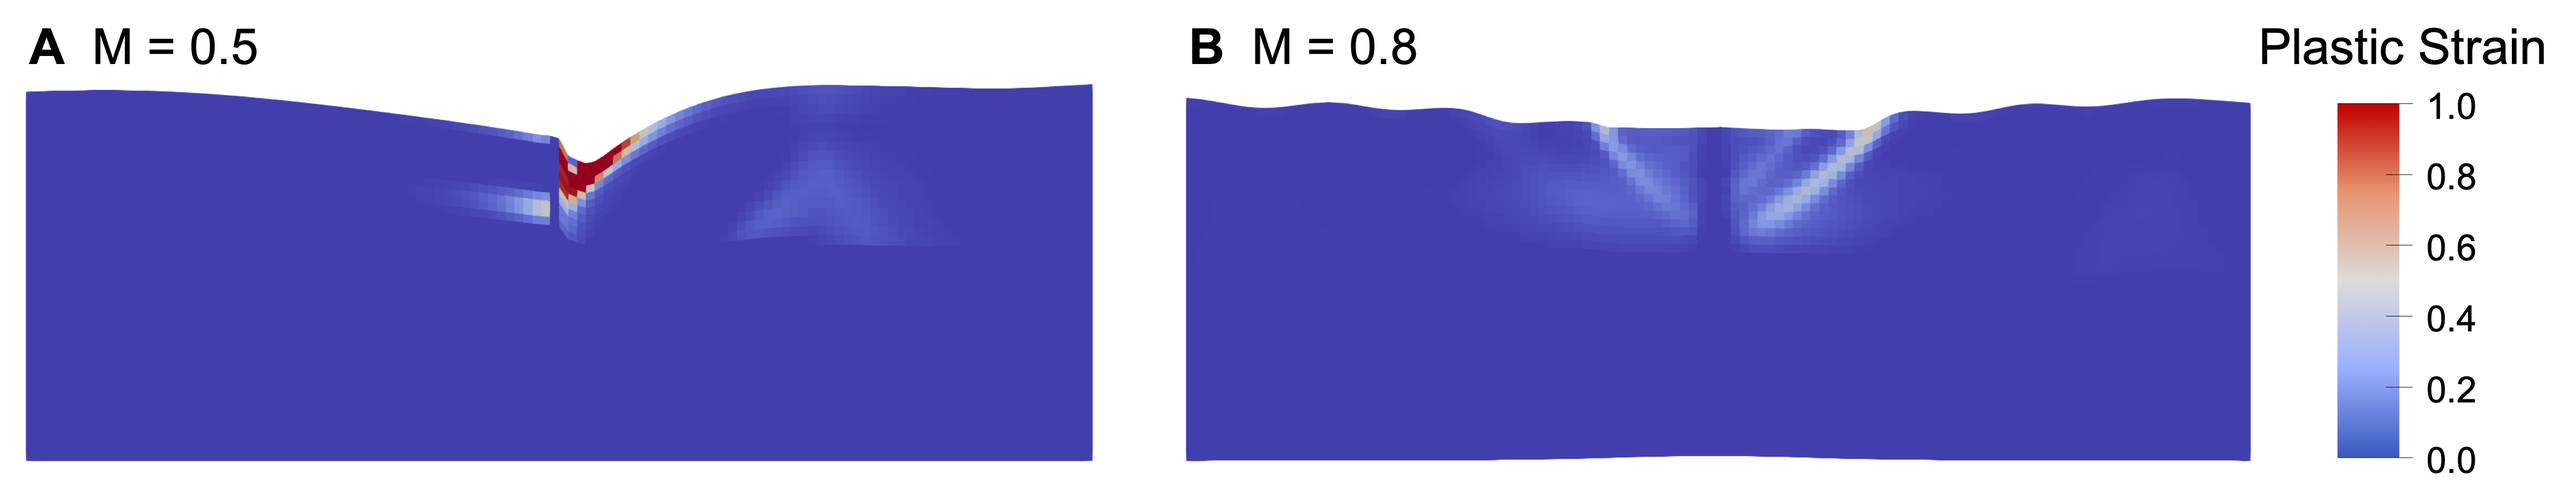
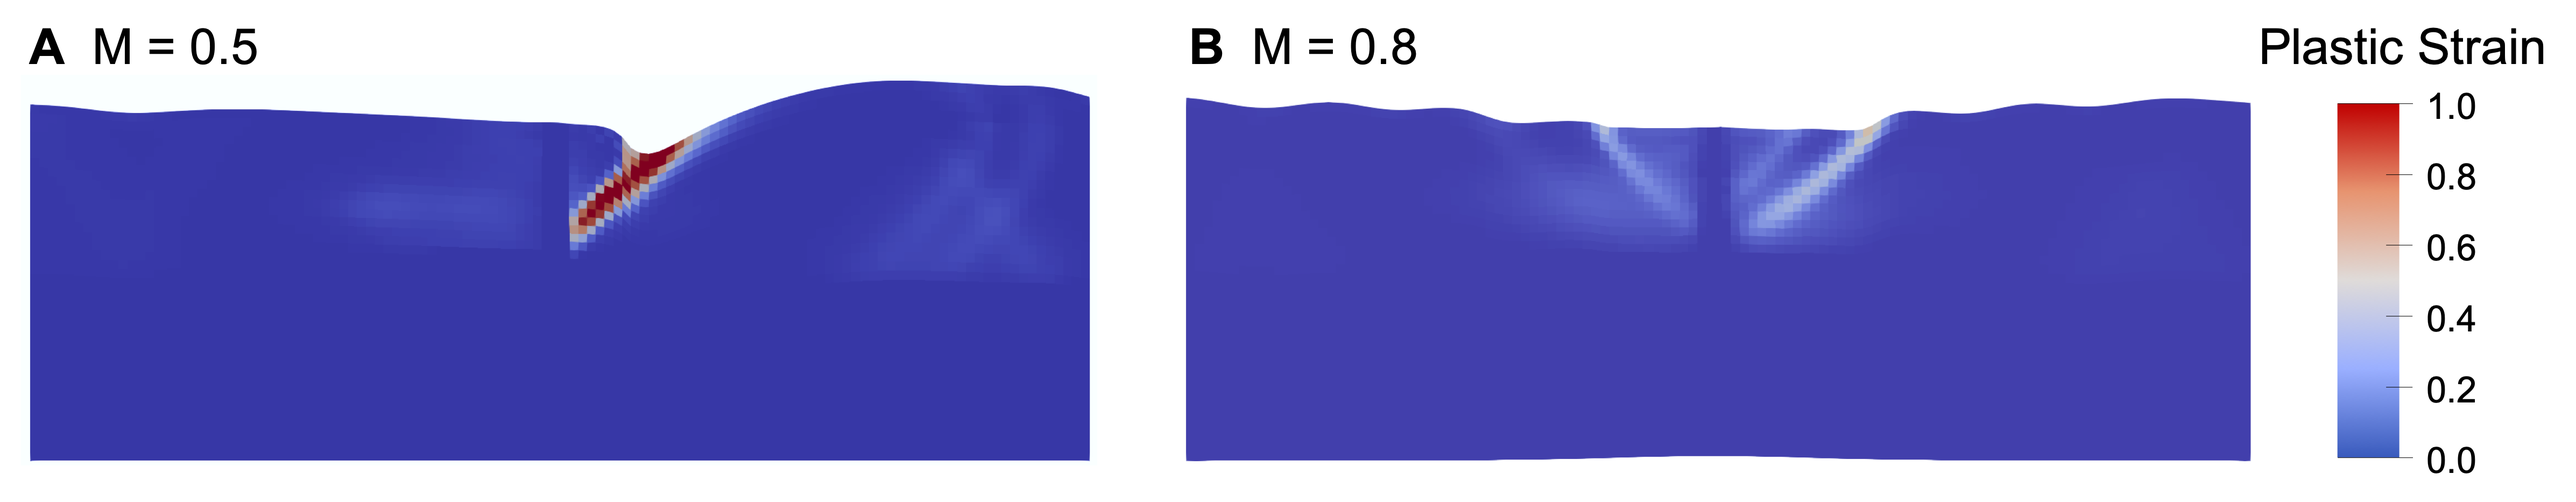
more editing

Changed region(s): [[0.1245, 0.1554, 0.4358, 0.4973], [0.0, 0.1554, 0.1245, 0.2487], [0.9027, 0.0622, 0.996, 0.1243]]

diff --git a/thesis.tex b/thesis.tex
@@ -467,6 +467,10 @@ The horizontal plate velocity changes when M value changes (400 Kyrs later). In 
 
 \section{Constant $(\boldsymbol{F_{bdy}})_x$ models}
 
+This condition characterizes both $(\boldsymbol{F_{int}})_x$ and $(\boldsymbol{F_{res}})_x$ are dynamically changed by setting $(\boldsymbol{F_{bdy}})_x$ as a constant value. Since the net residual force keeps changing, plate velocity under this condition is continuously changing over time.
+
+\subsection{Force balanced models}
+
 Modeled fault behaviors from constant $(\boldsymbol{F_{bdy}})_x$ models are similar to that of kinematic models and  $(\boldsymbol{F_{res}})_x = 0$  models. For M = 0.5, a master detachment fault forms on one side (Figure \ref{fig:fbfault}A). In my model, the  faulting mode lasts until 650 Kyrs. For M = 0.8, the model produces a series of small-offset faults on both sides from the ridge axis (Figure \ref{fig:fbfault}B).
 
 \begin{figure}[!htb]
@@ -500,7 +504,11 @@ When M=0.8, both sides of plate velocities change more vigorously than other mod
 	\label{fig:m08vel}
 \end{figure}
 
-\subsection{Mantle thermal fluctuation}
+\subsection{Force balanced models with hotter mantle rheology}
+
+Hotter mantle models show expected faulting modes for each M values. For M = 0.5, models produce one master detachment fault (Figure A). For M = 0.8, a series of small-offset faults on both sides form on both sides from the axis (Figure B).
+
+Comparing to the constant $(\boldsymbol{F_{bdy}})_x$ models with normal mantle temperature, 
 
 %Long term and large magnitude variation which cannot be explained by fault evolution may be caused by changes of the plate thermal state. By varying heat injection rate of the model, different behaviors of long term and large magnitude plate speed variation are observed. 
 
@@ -536,7 +544,7 @@ Results of horizontal plate velocities in kinematic models indicate that the fau
 Similarly, in the cases of force-driven model, interaction between dynamic driving velocity from boundary force and opposite direction velocity from normal faults controls the plate speed in force.
 When half of total plate growth is accommodated by magma intrusion at spreading center, the velocity of one plate is always lower than another. Models produce repeated pattern of two-phase plate velocity when most of total plate spreading is taken up by dike.
 
-Besides these velocity variations, another fluctuation with greater amplitude and frequency is observed in constant $(\boldsymbol{F_{bdy}})_x$ models. Fault evolution is not sufficient to explain this long term and large magnitude variation.
+Besides these velocity variations, another fluctuation with greater amplitude and frequency is observed in constant $(\boldsymbol{F_{bdy}})_x$ models. Fault evolution is not sufficient to explain this long term and large magnitude variation. This fluctuation may come from the deep interior, as the feedback between deep mantle dynamics and surface plate motion. Hotter mantle conditioned models 
 
 \chapter{Conclusion}
 
